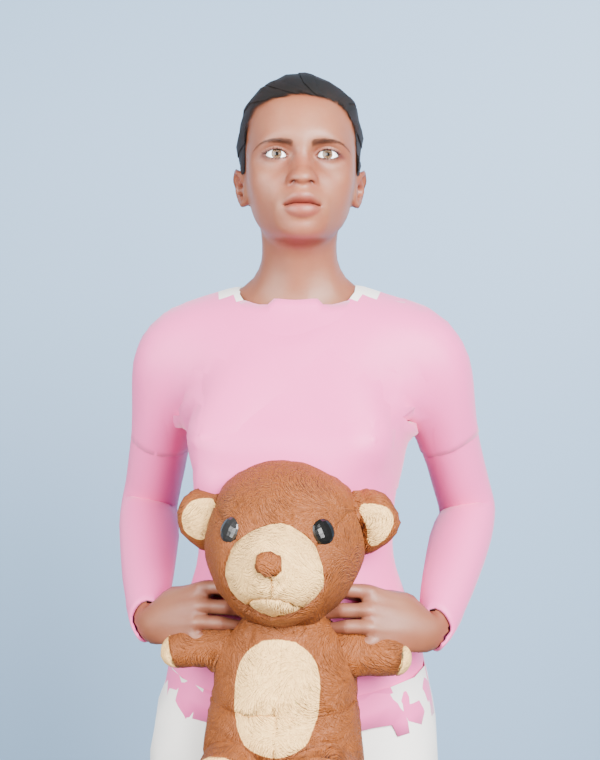
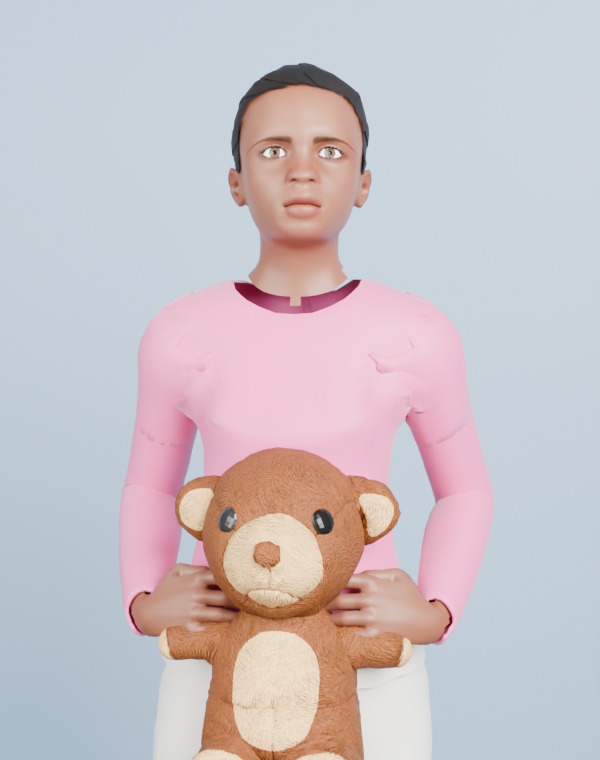
B06 AshaDegree corrected P1: 9-year-old girl, 3-frames-per-shot 540x960 sheets, body_prop_cross 0 visible, lens clearance
Claude-Session: https://claude.ai/code/session_01XfwPSnHdTC45yYGcWm4G1t

diff --git a/blender/AshaDegree_v001/scripts/03_sets.py b/blender/AshaDegree_v001/scripts/03_sets.py
@@ -274,8 +274,8 @@ box("Yard_FenceRail", (8.0, 0.04, 0.08), (0.55, 8.48, 1.3), fence_m, C)
 rain("Rain_Room", C, (0.8, 6.0, 0.0), size=(7, 6, 4), count=3000)
 area("Yard_Moon", C, (0.8, 7.5, 4.5), (R_(-30), 0, 0), 300, 6, col=(0.55, 0.65, 1.0))
 # furniture: floor lamp (warm light), rug, toy-brick towers, book stack, toy box
-lamp = import_glb("Room_FloorLamp", "floorlamp.glb", C, size=1.65, loc=(2.3, 2.45, 0))
-point("Room_LampBulb", C, (2.3, 2.45, 1.45), 60, col=(1.0, 0.8, 0.55), radius=0.15)
+lamp = import_glb("Room_FloorLamp", "floorlamp.glb", C, size=1.65, loc=(-2.4, 2.5, 0))
+point("Room_LampBulb", C, (-2.4, 2.5, 1.45), 60, col=(1.0, 0.8, 0.55), radius=0.15)
 rug = bpy.data.materials.new("Rug"); rug.use_nodes = True; nt = rug.node_tree; P = nt.nodes["Principled BSDF"]
 tc = nt.nodes.new("ShaderNodeTexCoord"); wv = nt.nodes.new("ShaderNodeTexWave"); wv.inputs["Scale"].default_value = 3.0; wv.wave_profile = 'SAW'
 nt.links.new(tc.outputs["UV"], wv.inputs[0]); cr = nt.nodes.new("ShaderNodeValToRGB"); nt.links.new(wv.outputs["Fac"], cr.inputs[0])

diff --git a/blender/AshaDegree_v001/scripts/04_shots.py b/blender/AshaDegree_v001/scripts/04_shots.py
@@ -719,7 +719,8 @@ for sid, setn, f0, f1, note in SHOTS:
 removed = 0
 for o in list(bpy.data.objects):
     if o.name.startswith(("Woods_Under", "Woods_Tree", "Woods_LaneTree", "Road_Shrub", "Shed_Under", "Shed_Tree", "Site_Tree", "Road_Tree")):
-        if any((o.location.xy - p.xy).length < 1.6 for p in pts):
+        rad = 4.5 if o.name.startswith("Woods_Tree") else 1.6
+        if any((o.location.xy - p.xy).length < rad for p in pts):
             bpy.data.objects.remove(o); removed += 1
 print("CLEARED near-lens vegetation", removed)
 bar = bpy.data.objects.get("Site_Barrier")

diff --git a/blender/AshaDegree_v001/PLAN.md b/blender/AshaDegree_v001/PLAN.md
@@ -51,12 +51,33 @@ The build is fully scripted (`scripts/01`–`05`). Characters are generic MPFB/M
 - **Searcher torches.** Spot lights only. I removed the beam cones because they blocked the lens.
 - **Found bag.** The worker's flat palm rests on top (no grip, no peeling). The bag xy is solved from the palm position.
 
-## Known issues (Phase 1, fixing while I wait for the VO)
-1. S02: the floor-lamp shade sits directly behind her head (background merge). The camera will move.
-2. Girl: the jacket hem has small jagged patches at the hips. Her face reads early-teen rather than 9 (the reused body's phenotype). She has no shoulder straps on the front.
-3. S09: in the look-back pose the umbrella canopy tilts out to her side and is partly cut by the frame.
-4. S17: the plastic wrap reads as white flakes on top, not a wrapped bag. The wrap needs a proper shrinkwrap shell.
-5. The umbrella is a low-poly faceted model. A better one is pending.
-6. S16: the torch arm reaches out sideways at the end of the shot.
-7. Rain streaks occasionally pass close to the lens (one white streak in S12).
-8. Checks (`clip_scan`, `qa_check`, `limb_check`, `body_prop_cross`) have not run yet. They run on the packed Phase 2 file.
+## P1 checks (redone Nov 16 per the new CONNECT_BATCH2 rule)
+- **Sheets:** `review/P1_sheet_3frames_1.jpg` (S01–S12) and `_2.jpg` (S13–S24). Each shows the **first, middle and last frame of every shot** at 540×960, Cycles 8 spp, and I reviewed every frame.
+- **`body_prop_cross`:** the full film, step 6, on every held or touched prop. The props are the umbrellas, all book bags and badges, the plastic wrap, the torches, the clipboard, the French doors, the books, the toy box, the shed walls and door, and the crossing sign. Result: **0 visible crossings** (`review/body_prop_cross_P1.json`).
+
+## Changes since the first P1
+- **The girl now reads as 9 (director's answer 1).**
+  - She is a fresh MPFB child body at **1.31 m**, with child proportions and a rounder face. Her hair, eyes, brows and lashes were carried over with Surface Deform.
+  - She wears a **child's long-sleeved top (pink) and trousers (white)**, refitted from an existing child character. The adult crop top is gone.
+  - Teeth and tongue are hidden, because her mouth stays closed.
+- **Grips are solved (`grip_object`):** fingers close until they touch the umbrella shaft and the torch handles. Thumbs are eased so their skin clears the prop.
+- **Simpler staging (LESSONS §2.15):**
+  - S01–S02: her hands no longer touch the floor bag. She kneels upright behind it with relaxed arms.
+  - S09–S10: the umbrella stays up in its walking position, with continuous keys through the stop. She glances back briefly, then runs off holding it.
+- **Worn bag:** scaled for a 9-year-old and sits higher, so it clears her thighs and swinging arms.
+- **Found bag:** the plastic is now a shrink-wrapped crinkle shell. The worker's flat palm rests on top, and his shins and fingers stay clear.
+- **Lens blockers and framing:**
+  - The floor lamp moved behind her (it was beside the lens at the end of S04).
+  - The S02 camera moved off the lamp.
+  - The S06 camera moved off a street-lamp pole.
+  - Undergrowth within 1.6 m of every camera path is removed, and woods trees within 4.5 m.
+  - Rain streaks fade out within about 2 m of the lens.
+  - The construction barrier moved away from behind the worker.
+- **Visibility keys skip hidden helper meshes.** This fixes the white or skirted figure in the woods and ghost shots.
+- **The toy box with the logo is reframed.** It is readable in S01 and S03. It is the only logo placement (director's answer 2).
+- **The portrait is re-rendered with the 9-year-old girl** (director's answer 3: our own generic render).
+
+## Known items left for Phase 2
+1. The umbrella is a low-poly faceted model. I'll swap it if a better CC0/CC-BY model is found.
+2. S07 last frame: the girl exits frame right with the umbrella half cut. This shot will be retimed to the VO anyway.
+3. The four package checks (`clip_scan`, `qa_check`, `limb_check`, `body_prop_cross`) run again on the packed Phase 2 file.
